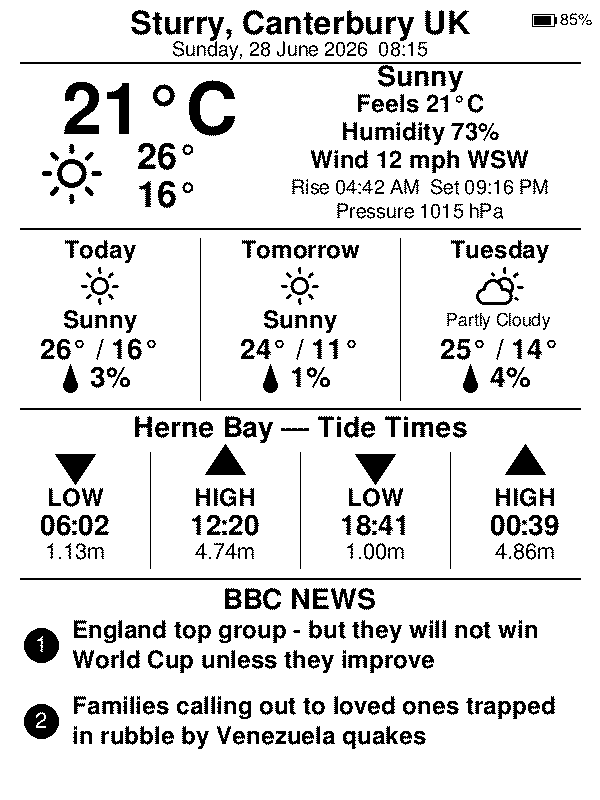
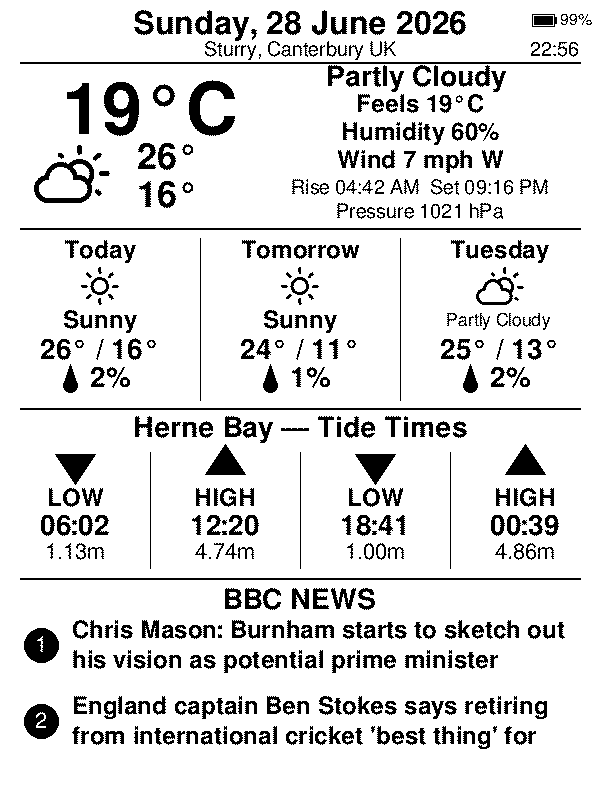
Redesign header: date on top, location and time below
Larger bold date as the main header, smaller location label and the
refresh time on the second line (aligned with the battery indicator).
Updated screenshot.

diff --git a/weather_image.py b/weather_image.py
@@ -241,8 +241,10 @@ def generate_image(data, tides=None, news=None):
     fb_88  = load_font(FONT_BOLD,   88)
 
     # ── HEADER ───────────────────────────────────────────────────
-    draw.text((KINDLE_W//2, 24), LOCATION_LABEL, fill=0, font=fb_32, anchor="mm")
-    draw.text((KINDLE_W//2, 50), now.strftime("%A, %d %B %Y  %H:%M"),
+    # Ust: tarih (buyuk bold), alt: konum (kucuk)
+    draw.text((KINDLE_W//2, 24), now.strftime("%A, %d %B %Y"),
+              fill=0, font=fb_32, anchor="mm")
+    draw.text((KINDLE_W//2, 50), LOCATION_LABEL,
               fill=0, font=fm_20, anchor="mm")
 
     # Pil gostergesi — sag ust kose (kucuk pil ikonu + yuzde)
@@ -267,6 +269,10 @@ def generate_image(data, tides=None, news=None):
             draw.rectangle([(ix + 2, iy + 2), (ix + 2 + fill_w, iy + ico_h - 2)], fill=0)
         # Yuzde metni ikonun sagina
         draw.text((bx_right, by + ico_h // 2), bt, fill=0, font=fm_16, anchor="rm")
+
+    # Refresh saati — konum yazisi ile ayni yatay hizada (y=50), ayni font, sag kose
+    draw.text((KINDLE_W - 20, 50), now.strftime("%H:%M"),
+              fill=0, font=fm_20, anchor="rm")
 
     sep(draw, 62)
 